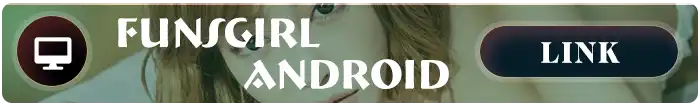
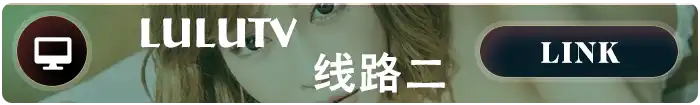
no message

Changed region(s): [[0.33, 0.4857, 0.66, 0.8857], [0.15, 0.1714, 0.48, 0.4571]]

diff --git a/index.html b/index.html
@@ -16,7 +16,7 @@
      <link rel="stylesheet" href="scss/video-js.css">
     
     <!-- ======= 標題 & 收藏夾 ======= -->
-    <title>成人影視平台 | 熱門影片</title>
+    <title>影視平台 | 熱門影片</title>
     <link rel="icon" href="images/other/icoLogo.png" type="image/x-icon">
     <link rel="shortcut icon" href="images/other/icoLogo.png" type="image/x-icon">
 
@@ -78,7 +78,7 @@
         <div class="dlBtn">
             <ul>
                 <li v-for="(item,index) in linkBtn">
-                    <a :href="item.href">
+                    <a :href="item.href" target="_blank">
                         <img :src="item.src" alt="item.alt">
                     </a>
                 </li>
@@ -118,7 +118,7 @@
                 </ul>
             </div>
             <div class="footer">
-                <p><span>Copyright © since 2020</span><span>funsgirl All Rights Reserved.</span></p>
+                <p><span>Copyright © since 2023</span><span> lulutv All Rights Reserved.</span></p>
             </div>
         </div>
     </div>
@@ -176,9 +176,9 @@
 
                     // 連結按鈕
                     linkBtn:[
-                        {href:'javasceipt:;',alt:'Download IOS',src:'images/download/dlBtn_01.webp'},
-                        {href:'javasceipt:;',alt:'Download Android',src:'images/download/dlBtn_02.webp'},
-                        {href:'https://funsgirl.cc/',alt:'Link Web page',src:'images/download/dlBtn_03.webp'}
+                        {href:'https://www.baline886.com',alt:'Download IOS',src:'images/download/dlBtn_01.webp'},
+                        {href:'https://www.baline887.com',alt:'Download Android',src:'images/download/dlBtn_02.webp'},
+                        {href:'https://www.baline888.com',alt:'Link Web page',src:'images/download/dlBtn_03.webp'}
                     ]
                 }
             },
